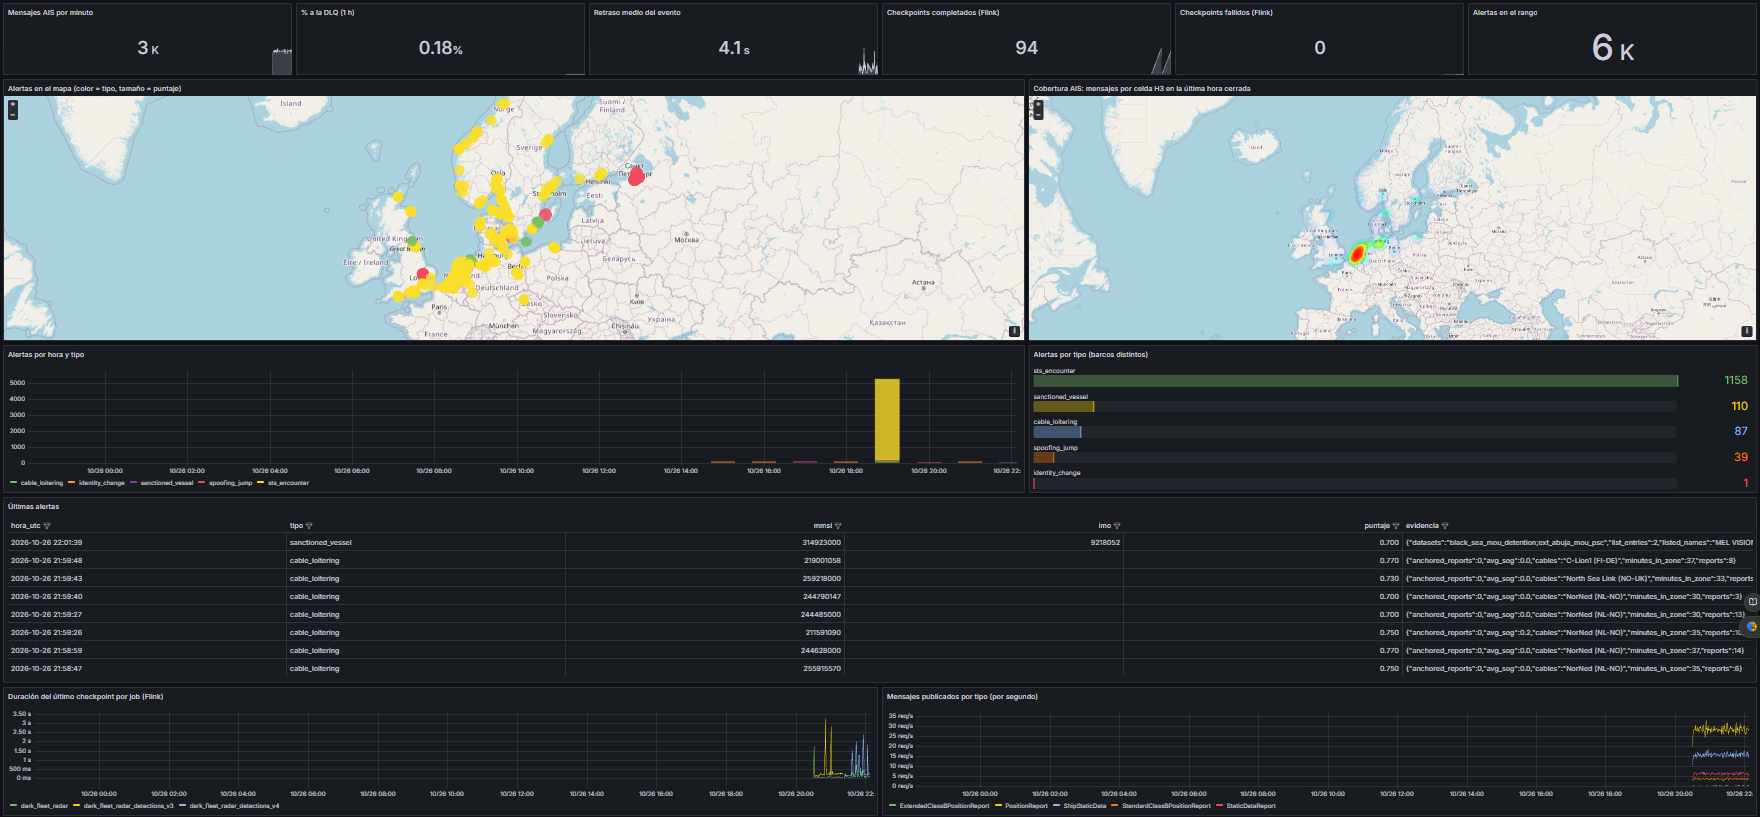
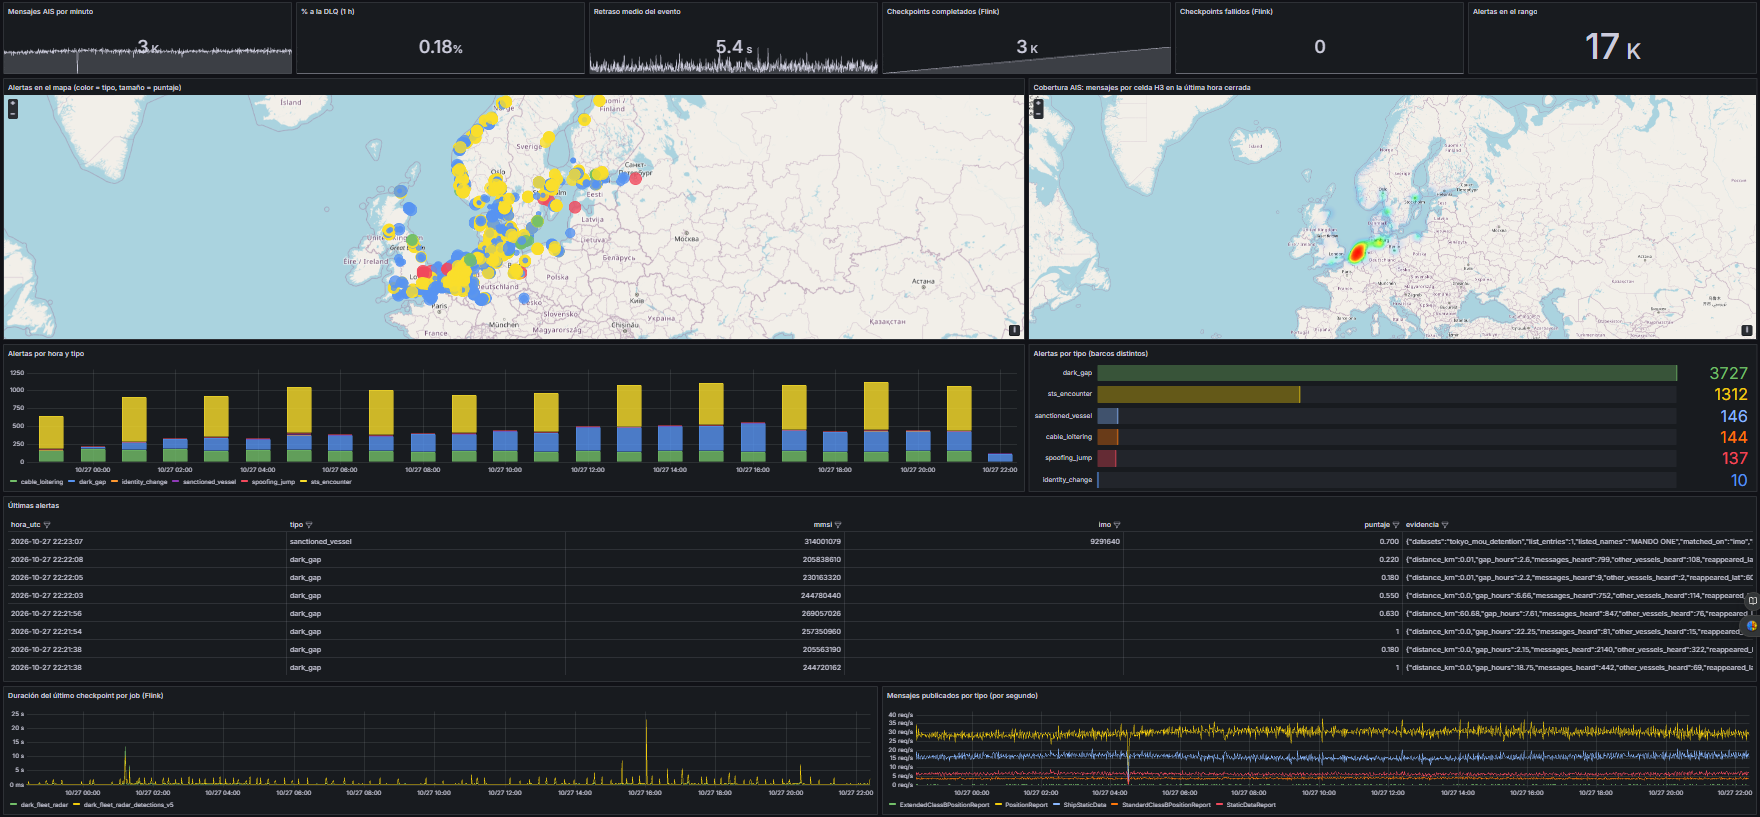
README: captura de Grafana con 24 h de datos reales
Claude-Session: https://claude.ai/code/session_01PAw6B8JUwgAE2YyBAAAhpB

diff --git a/README.md b/README.md
@@ -16,7 +16,7 @@ funcionan.
 | Precision / recall | 100 % / 100 % en las 6 reglas sobre 150 barcos etiquetados (positivos y negativos difíciles) ([evaluación](#evaluación-precision-y-recall)) |
 | Datos reales | Báltico y Mar del Norte en vivo: unos 3.000 mensajes AIS por minuto en un PC de 16 GB. En 29 horas seguidas: 6.055.107 mensajes, 0 duplicados, 0 huecos, unos 3.000 checkpoints y ninguno fallido ([lo que enseñaron](#lo-que-enseñaron-24-horas-de-datos-reales)) |
 
-![Tablero de Grafana con datos reales del Báltico y el Mar del Norte: alertas en el mapa, cobertura H3, alertas por tipo y salud del pipeline](docs/grafana.png)
+![Tablero de Grafana con 24 horas de datos reales del Báltico y el Mar del Norte: alertas en el mapa, cobertura H3, alertas por tipo y salud del pipeline](docs/grafana.png)
 
 ![Prueba de caos: se mata el TaskManager, Flink retoma desde el checkpoint y la tabla bronze queda sin duplicados ni huecos](docs/chaos_test.gif)
 

diff --git a/README.en.md b/README.en.md
@@ -15,7 +15,7 @@ shows it on a map, with metrics that prove the alerts work.
 | Precision / recall | 100 % / 100 % on all 6 rules over 150 labelled vessels (positives and hard negatives) ([evaluation](#evaluation-precision-and-recall)) |
 | Real data | Live Baltic and North Sea traffic: about 3,000 AIS messages per minute on a 16 GB PC. Over 29 hours straight: 6,055,107 messages, 0 duplicates, 0 gaps, about 3,000 checkpoints and none failed ([lessons](#what-24-hours-of-real-data-taught)) |
 
-![Grafana dashboard on real Baltic and North Sea data: alert map, H3 coverage, alerts by type and pipeline health](docs/grafana.png)
+![Grafana dashboard with 24 hours of real Baltic and North Sea data: alert map, H3 coverage, alerts by type and pipeline health](docs/grafana.png)
 
 ![Chaos test: the TaskManager is killed, Flink resumes from its checkpoint and the bronze table ends with no duplicates or gaps](docs/chaos_test.gif)
 
